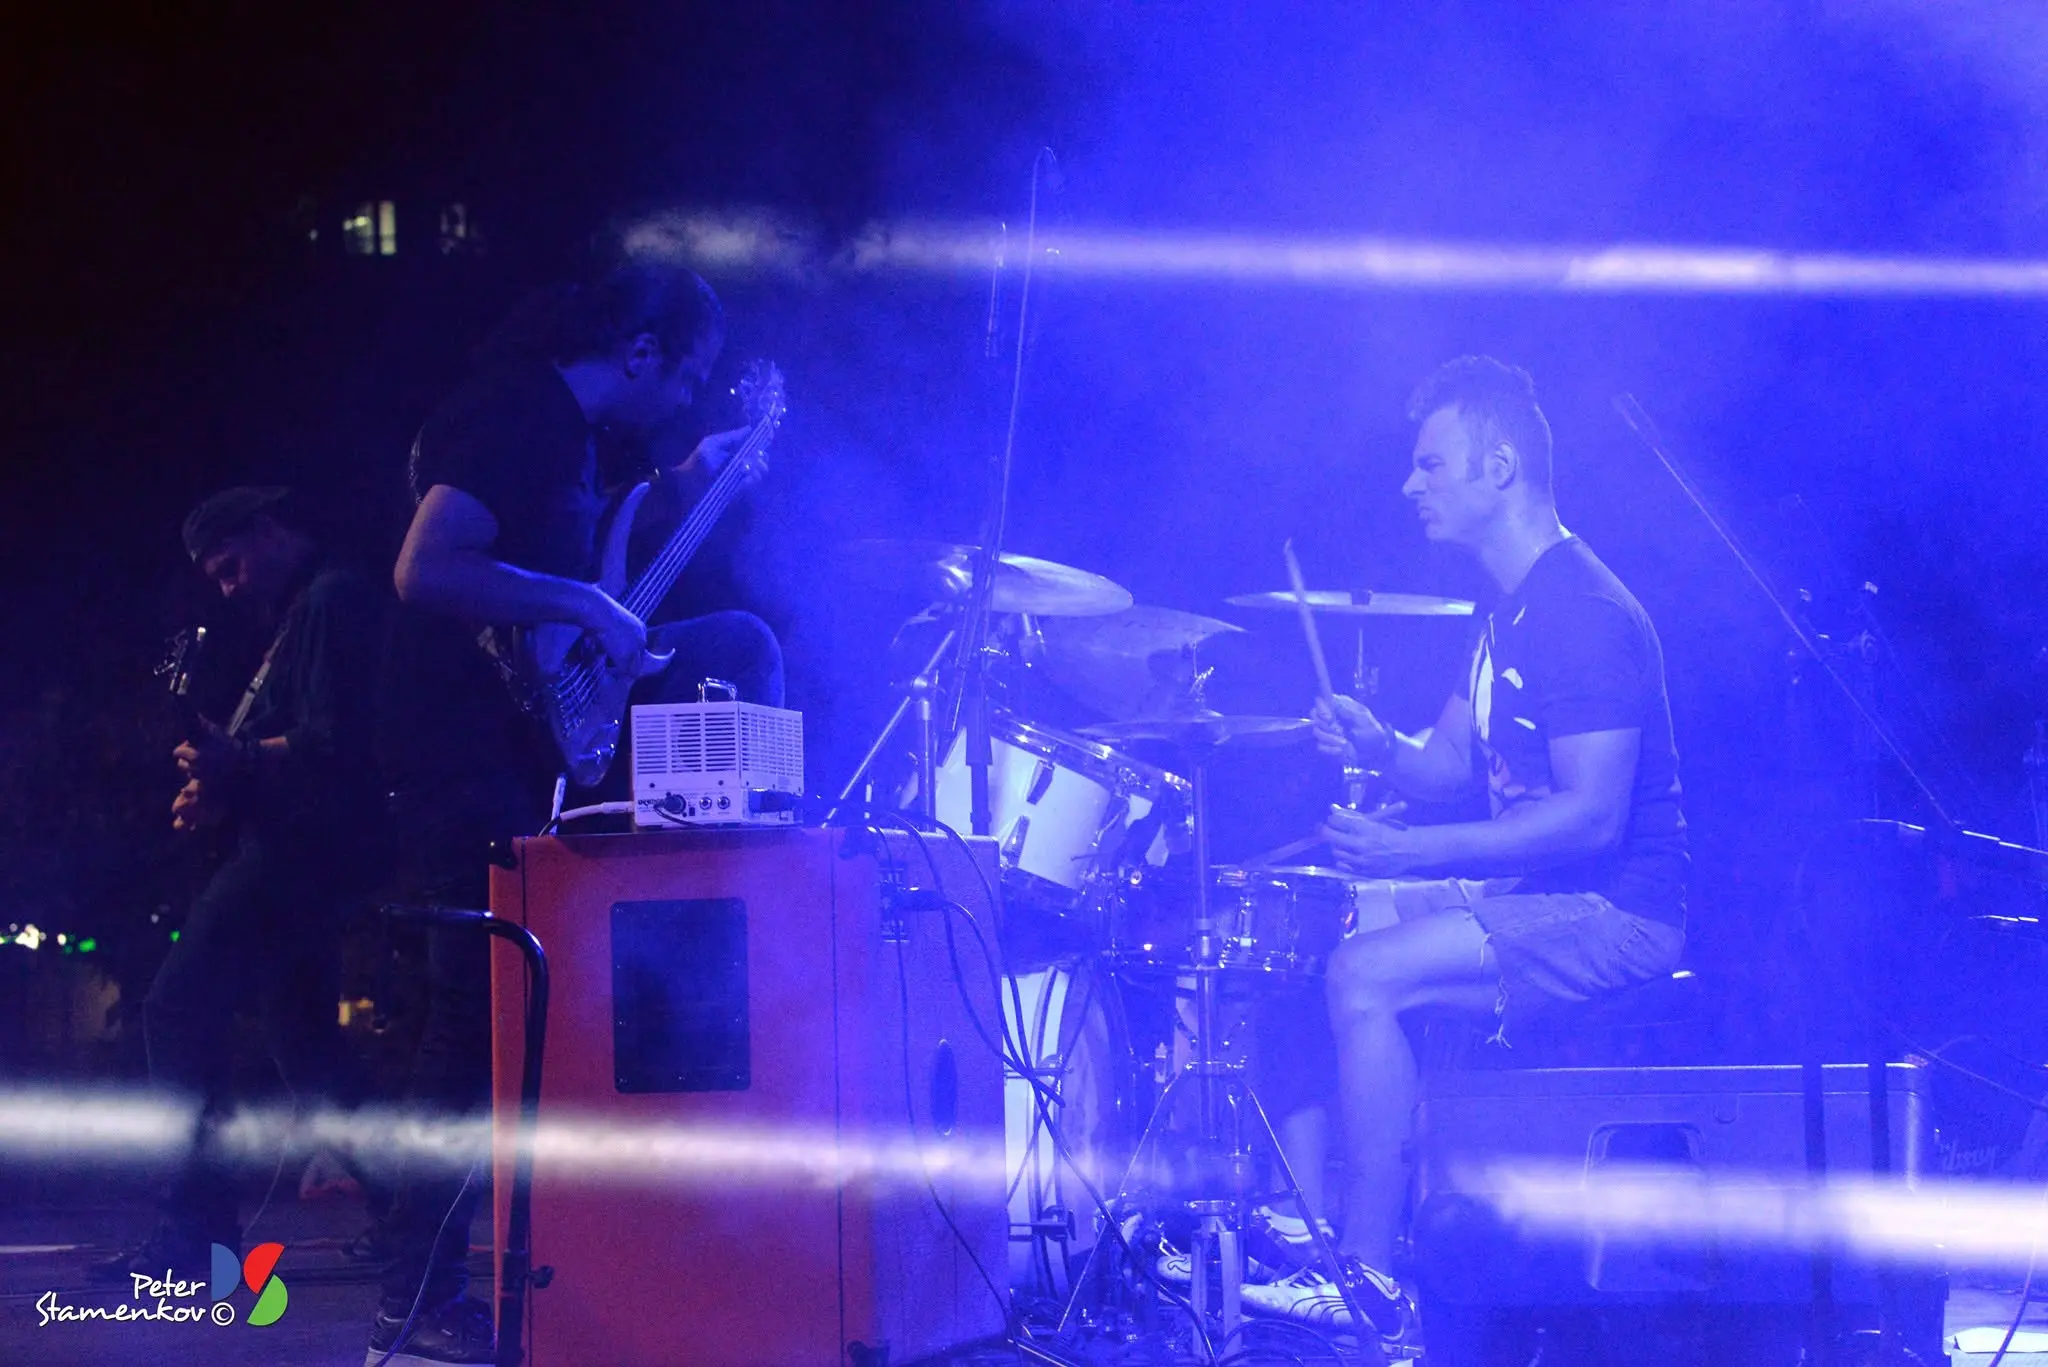
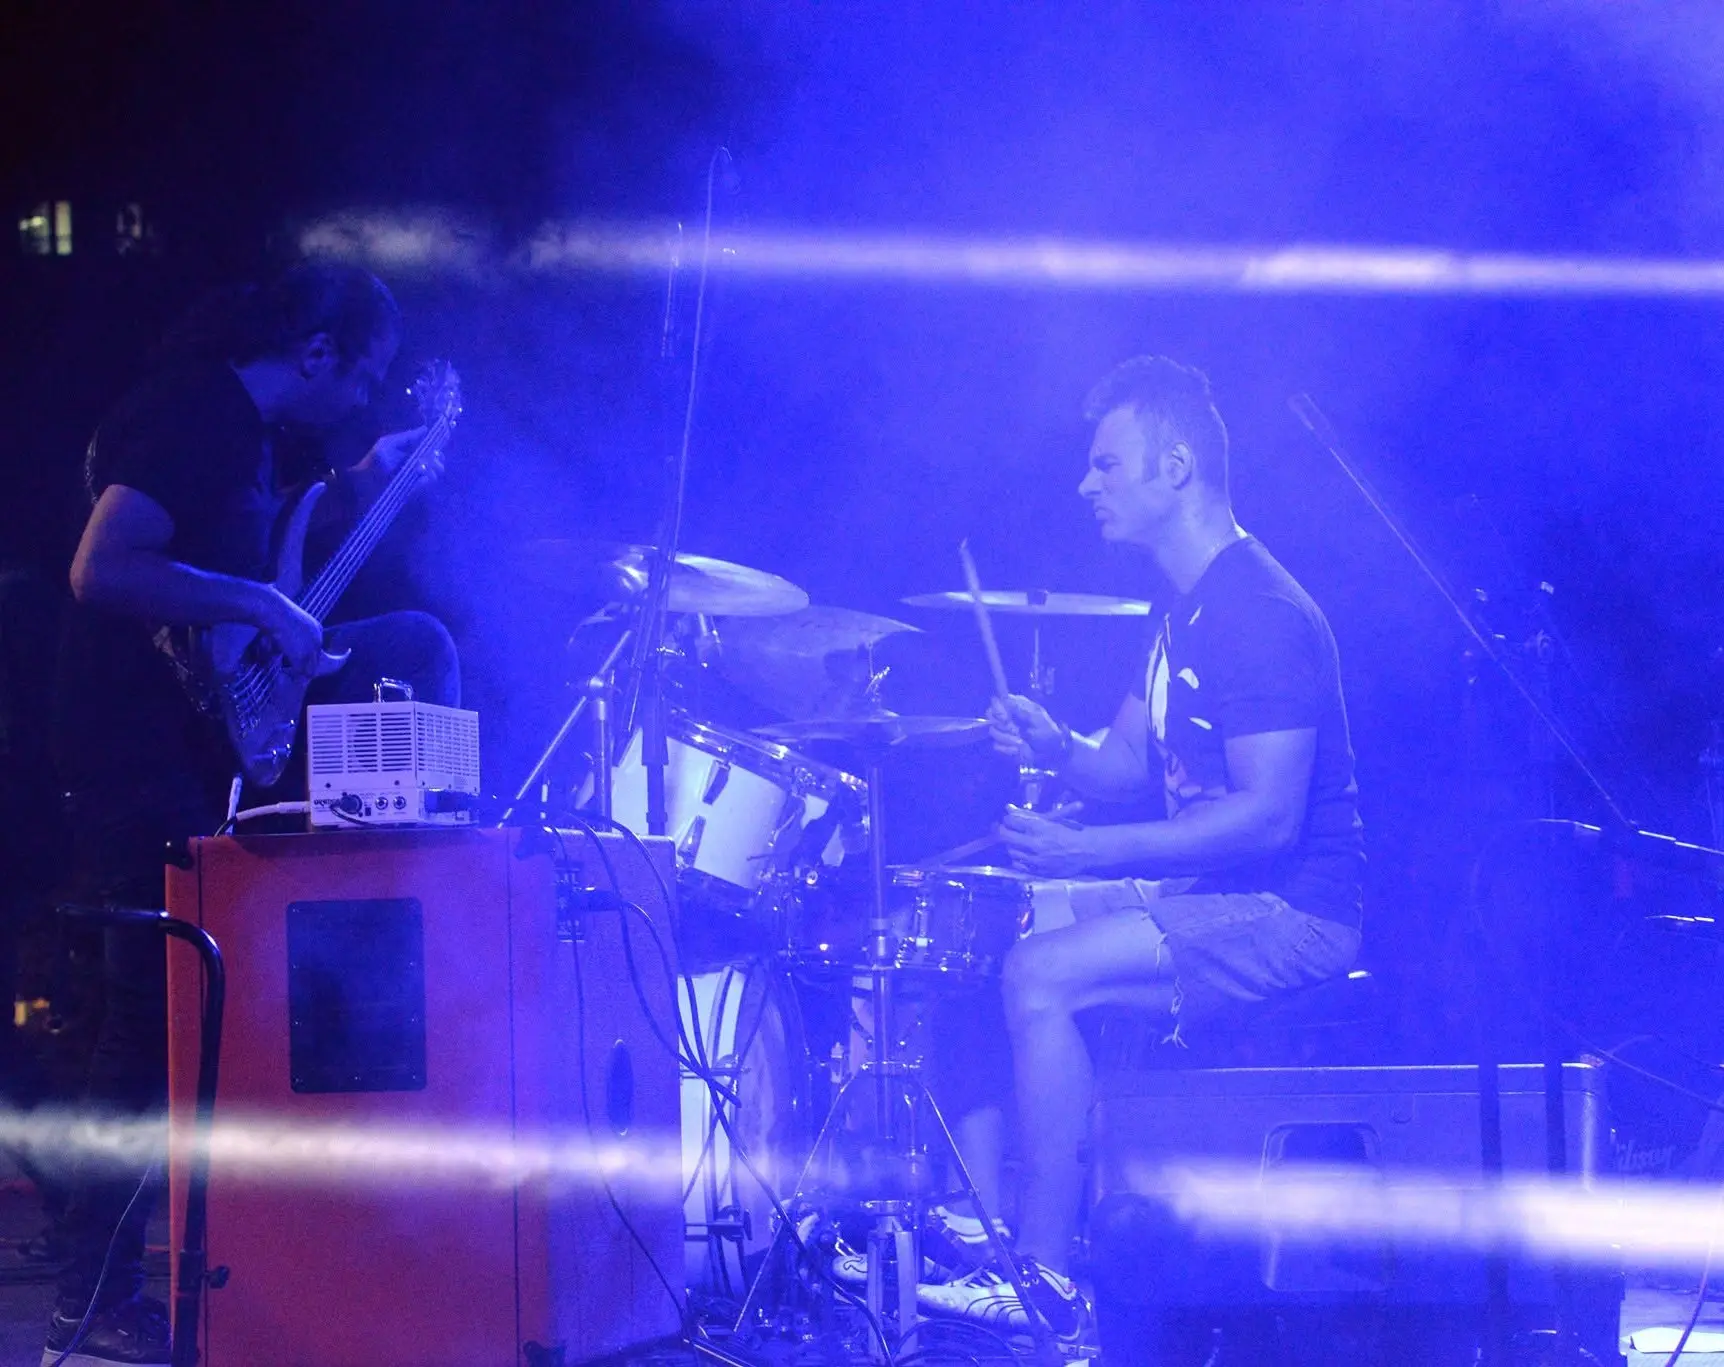
Replace hero with clean drummer photo

diff --git a/index.html b/index.html
@@ -64,7 +64,7 @@ nav a:hover{color:var(--accent)}
   background:
     linear-gradient(90deg,rgba(7,10,15,.99) 0%,rgba(7,10,15,.90) 42%,rgba(7,10,15,.26) 72%,rgba(7,10,15,.60) 100%),
     radial-gradient(circle at 78% 22%,rgba(58,120,184,.22),transparent 28%),
-    url('assets/bg-hero.webp') right center/auto 100% no-repeat,
+    url('assets/bg-hero.webp?v=clean') right center/auto 100% no-repeat,
     linear-gradient(135deg,#0d1420 0%,#070a0f 58%,#05070a 100%);
 }
 .hero:before{
